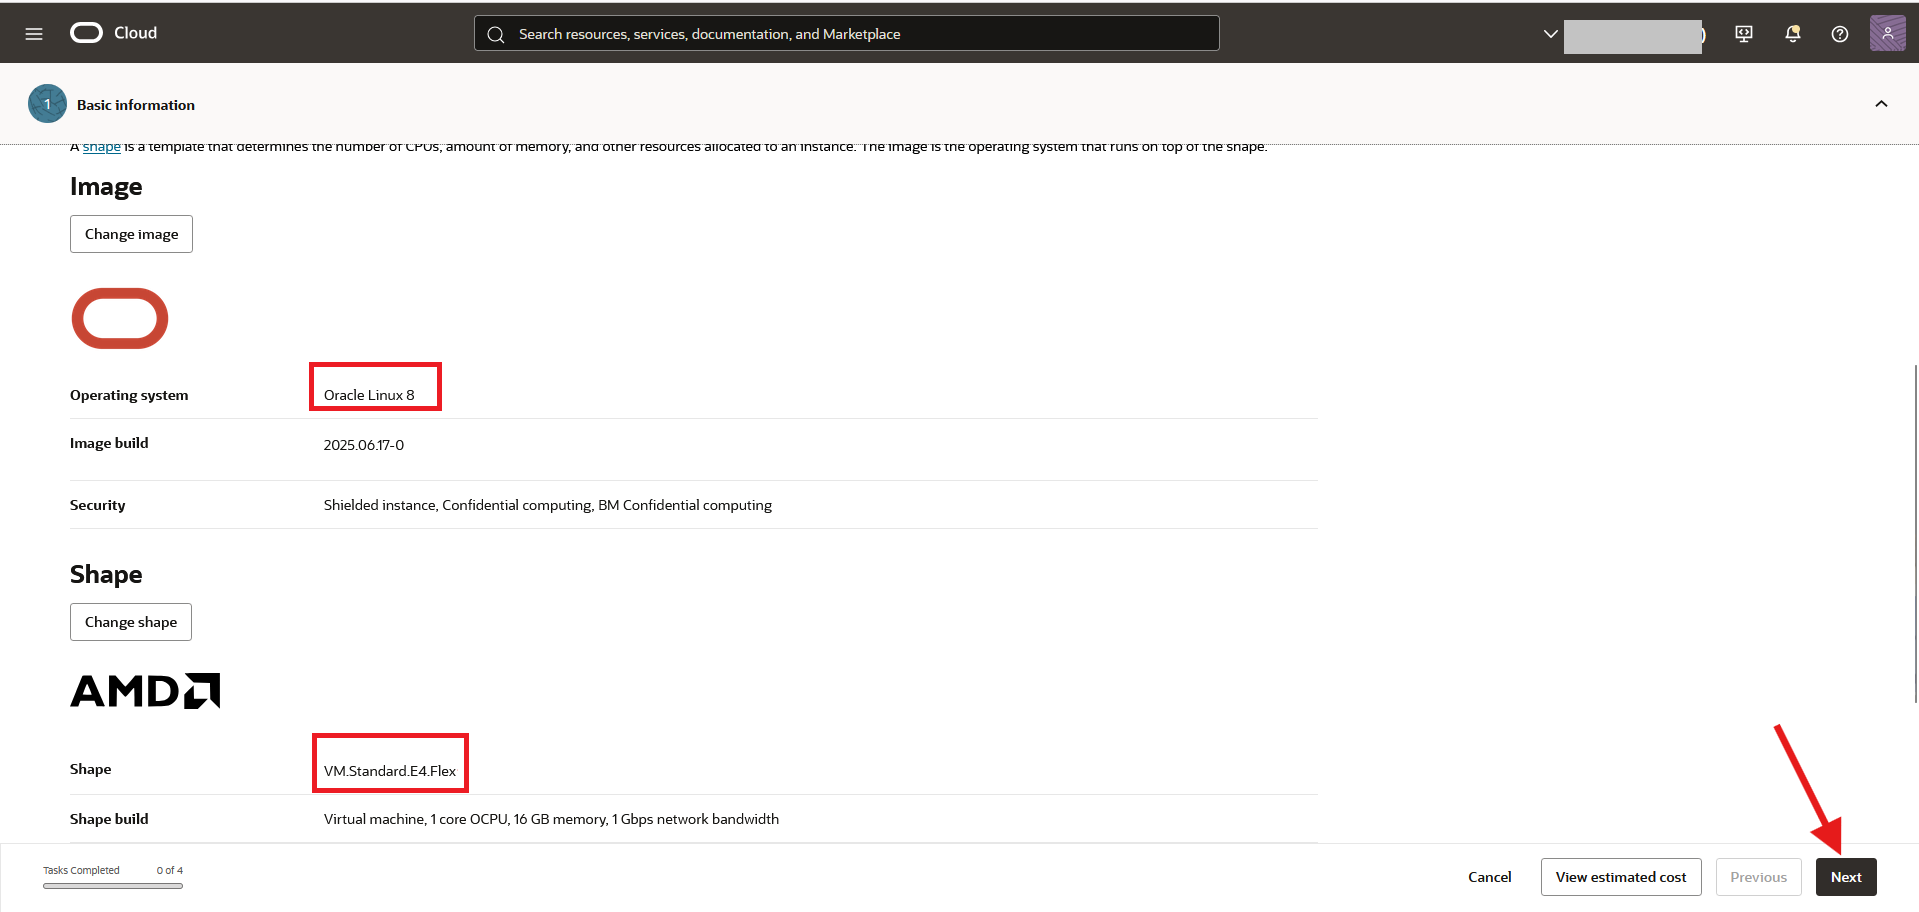
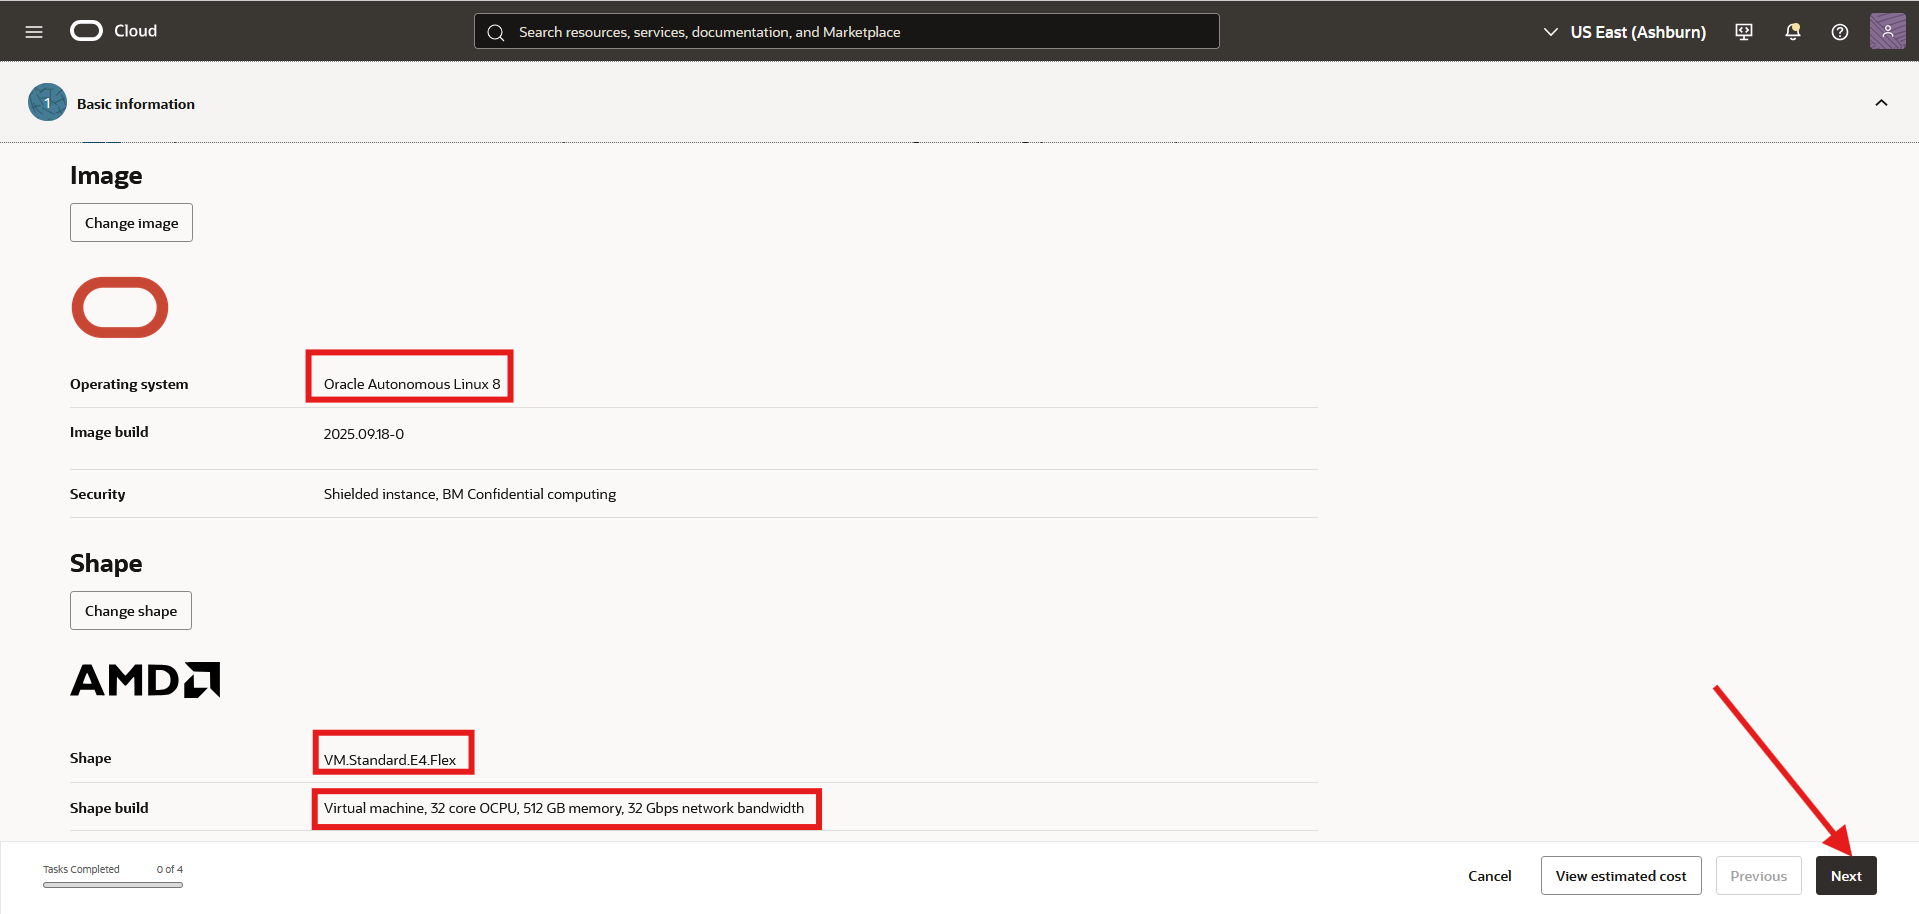
Updated

diff --git a/create-compute/create-compute.md b/create-compute/create-compute.md
@@ -40,9 +40,9 @@ You need a compute instance to connect to perform the database and application t
 
     ![Compute instance name](./images/3-compute-name.png "Compute instance name")
 
-6. In the **Image and Shape** field, keep the default shape.
+6. In the **Image and Shape** field, change the default image.
 
-    Click the **Change Image** button to selected image, **Oracle Linux 8**.
+    Click the **Change image** button to select image, **Oracle Linux 8**.
     ![Change Image Button](./images/4-compute-image-change-button.png "Change Image Button")
 
 7. In the **Select Image Screen** do the followings:
@@ -57,24 +57,41 @@ You need a compute instance to connect to perform the database and application t
     4. Click the **Select Image** button
         ![Compute image and shape change](./images/4-compute-image-change.png "Compute image and shape change")
 
-8. In the final **Image and Shape** field, keep the default shape and the new **Oracle Linux 8** image , and click **Next**.
+7. In the **Image and Shape** field, change the default shape.
+
+    Click the **Change shape** button to select shape, **VM.Standard.E4.Flex**.
+
+    ![Change IShape Button](./images/4-compute-shape-change-button.png "Change Shape Button")
+
+8. In the **Select Shape Screen** do the followings:
+    - Instance type: 	Virtual machine
+    - Shape series:  	AMD
+    - Shape name:    	VM.Standard.E4.Flex
+    - Number of OCPUs:  32
+    - Amount of memory (GB):  512
+
+    4. Click the **Select shape** button
+        ![Compute shape change](./images/4-compute-shape-change.png "Compute shape change")
+
+
+9. In the final **Image and Shape** field, keep the default shape and the new **Oracle Linux 8** image , and click **Next**.
    ![New Compute image and shape](./images/4-compute-image-shape.png "New Compute image and shape")
 
-9. Under **Security** panel, click **Next**.
+10. Under **Security** panel, click **Next**.
 
-10. Under **Networking** panel, in **Primary network** field, select **Select existing virtual cloud network**, and ensure the following settings are selected:
+11. Under **Networking** panel, in **Primary network** field, select **Select existing virtual cloud network**, and ensure the following settings are selected:
 
     - **Virtual cloud network compartment**: **mysql**
 
     - **Virtual cloud network**: **mysql-vcn**
 
-11. Under **Subnet**, ensure the following are selected:
+12. Under **Subnet**, ensure the following are selected:
 
     - **Subnet compartment**: **mysql**
 
     - **Subnet**: **public-subnet-mysql-vcn**
 
-12. In **Primary VNIC IP addresses** field, ensure the following settings are selected:
+13. In **Primary VNIC IP addresses** field, ensure the following settings are selected:
 
     - **Private IPv4 address**: **Automatically assign private IPv4 address**
 
@@ -82,11 +99,11 @@ You need a compute instance to connect to perform the database and application t
 
     ![Network settings](./images/5-networking.png "Network settings")
 
-13. In **Add SSH keys** field, select **Generate a key pair for me** and Click **Download private key**
+14. In **Add SSH keys** field, select **Generate a key pair for me** and Click **Download private key**
   
     ![Add SSH Keys](./images/6-ssh-keys.png "Add SSH Keys")
 
-14. Save **private key** in your ssh folder, and rename the key. For example:
+15. Save **private key** in your ssh folder, and rename the key. For example:
 
     ```bash
     <copy>ssh-key-2025</copy>
@@ -94,13 +111,21 @@ You need a compute instance to connect to perform the database and application t
 
      ![Save SSH keys](./images/7-ssh-key-store-mac-win.png "Save SSH Keys")
 
-15. Click **Next**, and then **Next**.
+16. Click **Next**.
 
-16. Click **Create** to create your compute instance.
+17. On the Storage section change the  Boot volume size  to 600 GB:
+    - Turn on the **Specify a custom boot volume size and performance setting** button
+    - Enter the value 600
+    - Click **Next**
 
-17. The compute instance will be ready to use after a few minutes. The state is shown as **Provisioning** while the instance is creating.
 
-18. When the compute instance is ready to use, the state is shown as **Running**. _Save_ the **Public IP address** and the **Username**.
+    ![Change boot volume size](./images/change-boot-volume-size.png "Change boot volume size")
+
+18. Click **Create** to create your compute instance.
+
+19. The compute instance will be ready to use after a few minutes. The state is shown as **Provisioning** while the instance is creating.
+
+20. When the compute instance is ready to use, the state is shown as **Running**. _Save_ the **Public IP address** and the **Username**.
 
     ![Compute instance is created](./images/8-compute.png "Compute instance is created")
 
@@ -108,6 +133,6 @@ You may now **proceed to the next lab**.
 
 ## Acknowledgements
 
-- **Author** - Craig Shallahamer, Applied AI Scientist, Viscosity North America
-- **Contributor** - Perside Foster, MySQL Solution Engineering 
-- **Last Updated By/Date** - Perside Foster, MySQL Solution Engineering , July 2025
+- Authors: Craig Shallahamer, Applied AI Scientist, Viscosity North America, Perside Foster, Open Source Principal Partner Solution Engineer
+- Contributors: Open - Source Channel Enablement Team (Nick Mader, Chris Bates, Juliana Castro)
+- Last Updated: Perside Foster, October 2025
